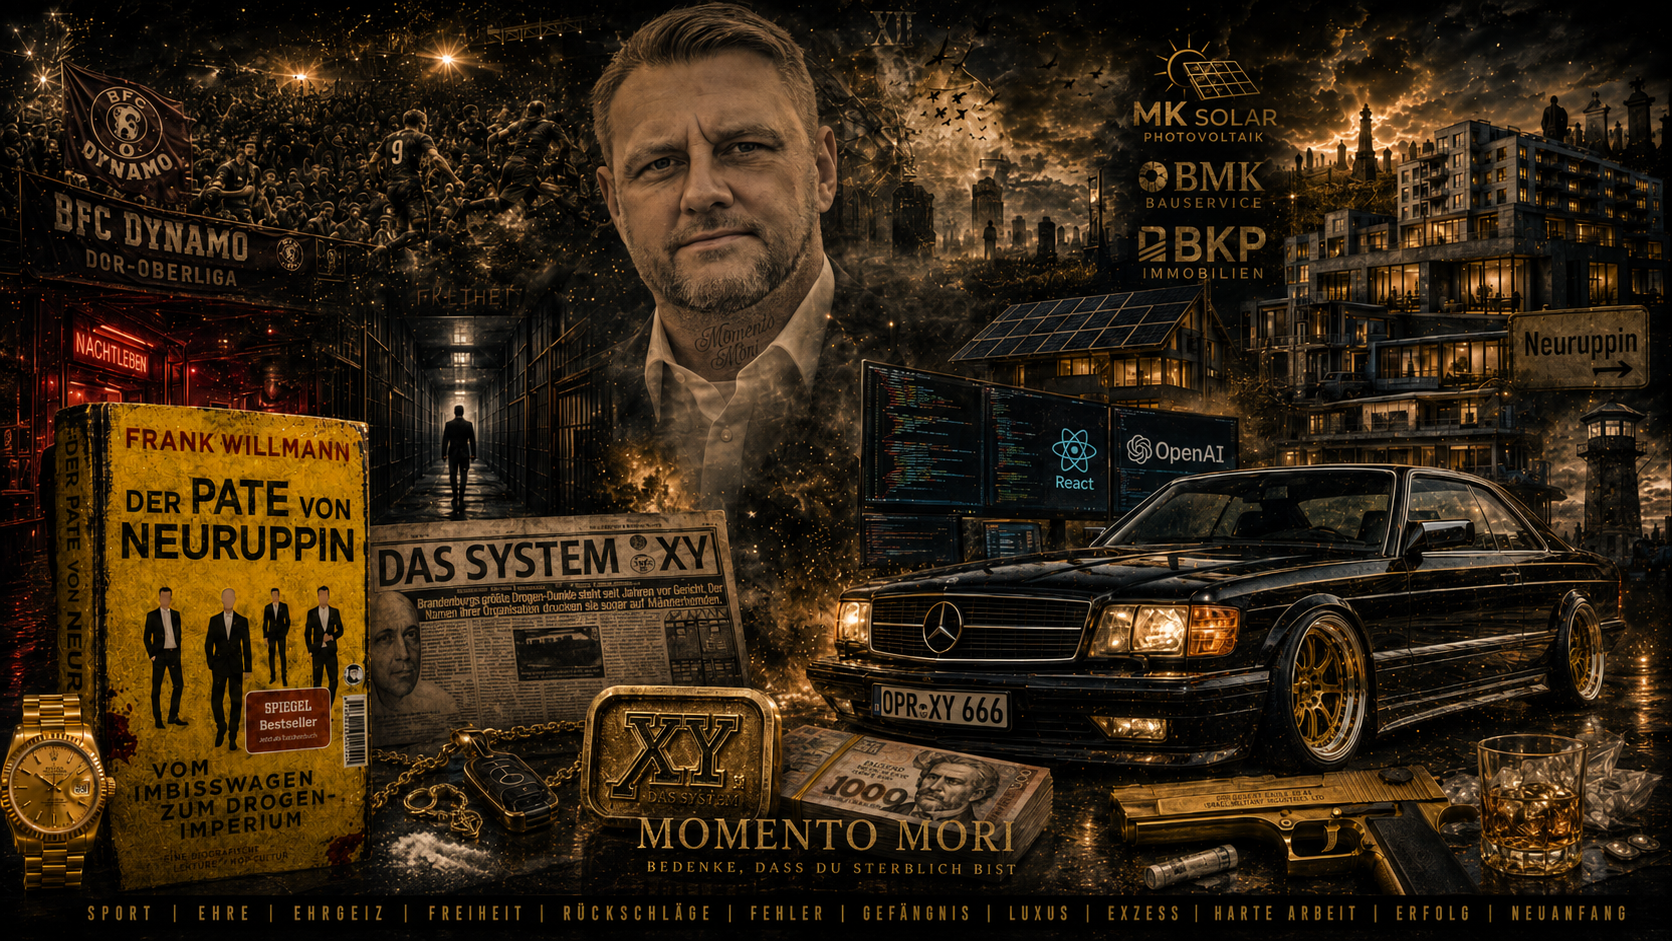
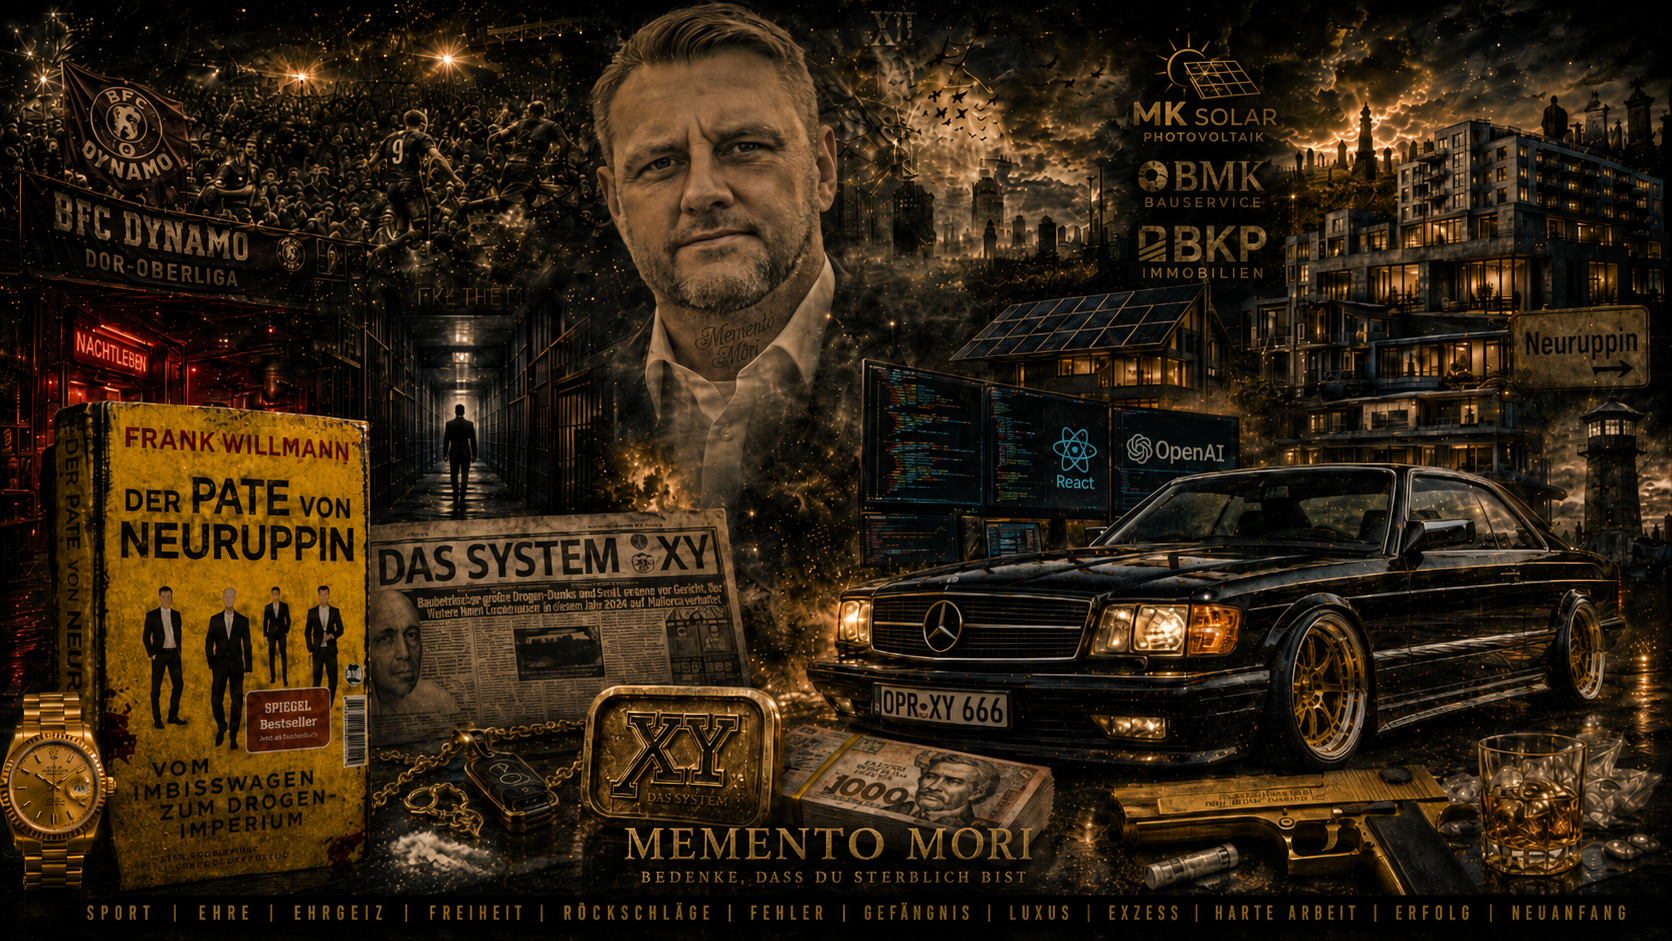
Fix image path for GitHub Pages

diff --git a/src/App.jsx b/src/App.jsx
@@ -12,20 +12,19 @@ import { loadEntries, saveEntries } from "./utils/storage";
 function DiaryPage() {
   const defaultEntries = [
     {
-      
-  id: 1,
-  title: "Die wahre Geschichte",
-  date: "2026-08-10",
-  image: `${import.meta.env.BASE_URL}images/wahre-geschichte-collage.png`,
-  content: `Mein Leben war nie geradlinig. Es gab Sport, Ehre, Ehrgeiz und Freiheit, aber ebenso Rückschläge, falsche Entscheidungen, Gefängnis, Luxus, schnelle Autos, Drogen und Alkohol. Es gab Jahre voller Exzess und ein Leben am Limit, ebenso wie harte Arbeit, große Pläne, Erfolge und immer wieder einen Neuanfang.
+      id: 1,
+      title: "Die wahre Geschichte",
+      date: "2026-08-10",
+      image: `${import.meta.env.BASE_URL}images/wahre-geschichte-collage.png`,
+      content: `Mein Leben war nie geradlinig. Es gab Sport, Ehre, Ehrgeiz und Freiheit, aber ebenso Rückschläge, falsche Entscheidungen, Gefängnis, Luxus, schnelle Autos, Drogen und Alkohol. Es gab Jahre voller Exzess und ein Leben am Limit, ebenso wie harte Arbeit, große Pläne, Erfolge und immer wieder einen Neuanfang.
 
-Vom DDR-Oberligafußball und der Leichtathletik mit Speerwerfen über das Nachtleben bis hin zu meiner Selbstständigkeit – jede dieser Stationen gehört zu meiner Geschichte. Mit MK Solar, BMK Bauservice und BKP Immobilien habe ich Unternehmen aufgebaut, Verantwortung übernommen, Erfolge erlebt und gleichzeitig erfahren, wie schnell sich im Leben Dinge verändern können, die zuvor selbstverständlich erschienen.
+Vom DDR-Fußball und der Leichtathletik mit Speerwerfen über das Nachtleben bis hin zu meiner Selbstständigkeit – jede dieser Stationen gehört zu meiner Geschichte. Mit MK Solar, BMK Bauservice und BKP Immobilien habe ich Unternehmen aufgebaut, Verantwortung übernommen, Erfolge erlebt und gleichzeitig erfahren, wie schnell sich im Leben Dinge verändern können, die zuvor selbstverständlich erschienen.
 
 Heute beginnt erneut ein völlig anderes Kapitel. Programmieren, React, Webentwicklung und künstliche Intelligenz haben mit meinem früheren Berufsleben auf den ersten Blick wenig gemeinsam. Trotzdem gehört auch dieser Weg zu mir. Noch einmal etwas vollständig Neues zu lernen, sich weiterzuentwickeln und mit über 50 nicht einfach stehen zu bleiben, ist für mich kein Widerspruch zu meiner Vergangenheit, sondern eine Konsequenz daraus.
 
 Mit den Jahren verändert sich auch der Blick auf die eigene Zeit. Viele Freunde und Menschen, die mich über längere Abschnitte meines Lebens begleitet haben, sind inzwischen verstorben. Dadurch wird einem sehr deutlich bewusst, dass Zeit nicht unbegrenzt zur Verfügung steht.
 
-„Momento Mori“ ist deshalb zu meinem Lebensmotto geworden: Bedenke, dass du sterblich bist. Für mich hat dieser Satz nichts Düsteres. Er erinnert mich vielmehr daran, dass das Leben zu kurz ist, um dauerhaft stehen zu bleiben, wichtige Entscheidungen endlos aufzuschieben oder aus Angst vor Veränderungen Möglichkeiten ungenutzt verstreichen zu lassen.
+„Memento Mori“ ist deshalb zu meinem Lebensmotto geworden: Bedenke, dass du sterblich bist. Für mich hat dieser Satz nichts Düsteres. Er erinnert mich vielmehr daran, dass das Leben zu kurz ist, um dauerhaft stehen zu bleiben, wichtige Entscheidungen endlos aufzuschieben oder aus Angst vor Veränderungen Möglichkeiten ungenutzt verstreichen zu lassen.
 
 Wer einen großen Teil seines Lebens noch vor sich hat, dem kann ich aus meiner eigenen Erfahrung nur empfehlen, sich gelegentlich bewusst zu fragen, was wirklich wichtig ist, wohin der eigene Weg führen soll und welche Entscheidungen man später nicht bereuen möchte.
 
@@ -34,8 +33,8 @@ Die Vergangenheit lässt sich nicht ändern. Man kann aber Verantwortung für si
 Dieses Bild steht deshalb nicht nur für Erinnerungen. Es steht für Erfolge und Fehler, gute und schlechte Entscheidungen, Höhen und Tiefen, Menschen, die geblieben sind, und Menschen, die nicht mehr da sind.
 
 Und vor allem für eines: Egal wie oft das Leben mich zurückgeworfen hat – ich bin immer wieder aufgestanden.`,
-secret: true,
-},
+      secret: true,
+    },
     {
       id: 2,
       title: "Der Tag, an dem ich nichts gemacht habe",
@@ -171,30 +170,6 @@ secret: true,
       return defaultEntries;
     }
 
-    const savedEntriesById = new Map(
-      savedEntries.map((entry) => [entry.id, entry]),
-    );
-
-    const mergedEntries = defaultEntries.map((defaultEntry) => {
-      const savedEntry = savedEntriesById.get(defaultEntry.id);
-
-      if (defaultEntry.id === 1) {
-        return {
-          ...savedEntry,
-          ...defaultEntry,
-        };
-      }
-
-      if (savedEntry) {
-        return {
-          ...defaultEntry,
-          ...savedEntry,
-        };
-      }
-
-      return defaultEntry;
-    });
-
     const customEntries = savedEntries.filter(
       (savedEntry) =>
         !defaultEntries.some(
@@ -202,7 +177,7 @@ secret: true,
         ),
     );
 
-    return [...customEntries, ...mergedEntries].sort(
+    return [...customEntries, ...defaultEntries].sort(
       (a, b) => new Date(b.date) - new Date(a.date),
     );
   });
